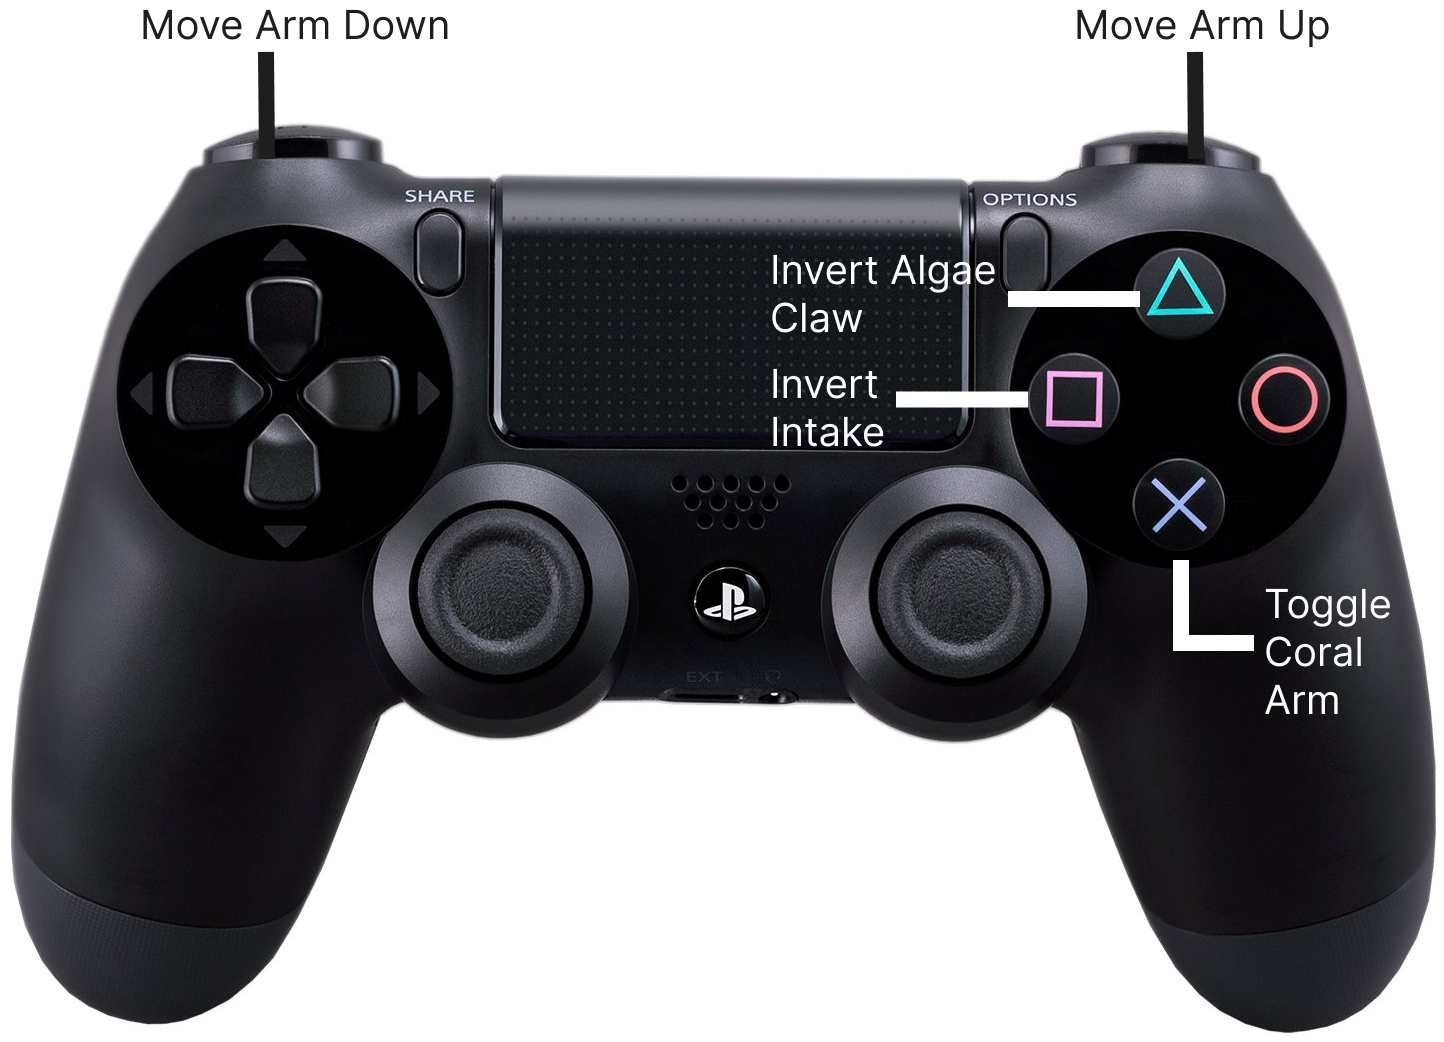
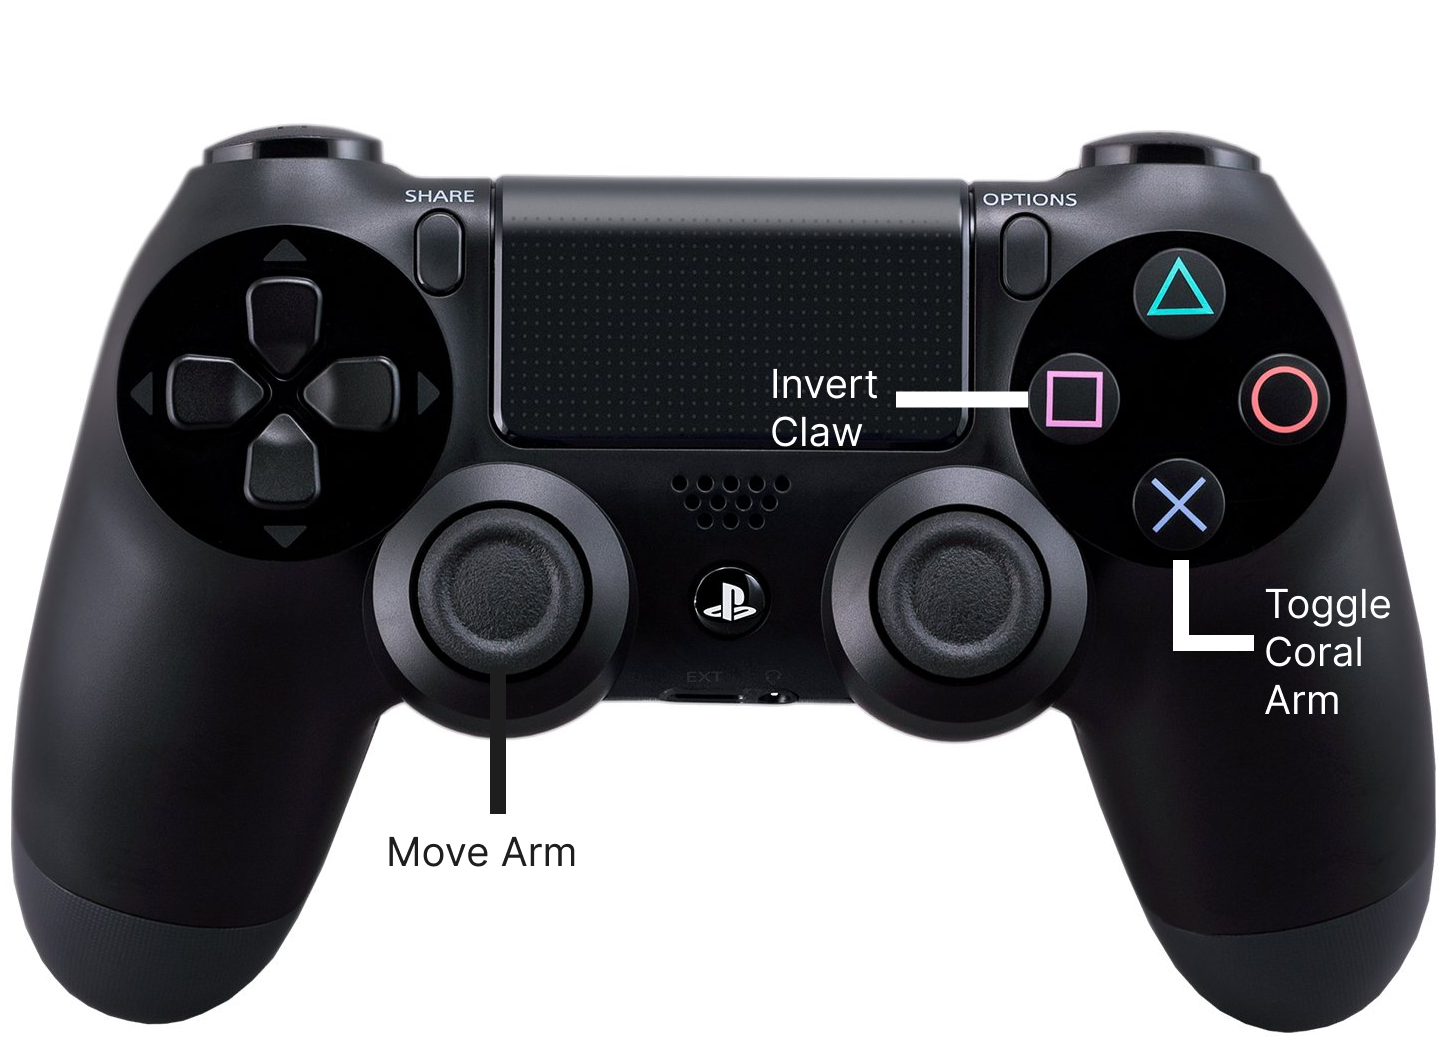
new controller mapping

diff --git a/src/main/java/frc/robot/RobotContainer.java b/src/main/java/frc/robot/RobotContainer.java
@@ -40,7 +40,7 @@ public class RobotContainer {
     // The robot's subsystems and commands are defined here
     public final DriveSubsystem m_driveSubsystem = new DriveSubsystem();
     public final ArmSubsystem m_armSubsystem = new ArmSubsystem();
-    public final BallSubsystem m_BallSubsystem = new BallSubsystem();
+    public final BallSubsystem m_ballSubsystem = new BallSubsystem();
 
     // Create the controllers
     private static CommandPS5Controller driver;
@@ -58,7 +58,7 @@ public class RobotContainer {
       // The base command that is always running is the moving command
       CommandScheduler.getInstance().setDefaultCommand(m_driveSubsystem, new DefaultDriveCommand(m_driveSubsystem));
       CommandScheduler.getInstance().setDefaultCommand(m_armSubsystem, new DefaultArmCommand(m_armSubsystem));
-      CommandScheduler.getInstance().setDefaultCommand(m_BallSubsystem, new DefaultBallCommand(m_BallSubsystem));
+      CommandScheduler.getInstance().setDefaultCommand(m_ballSubsystem, new DefaultBallCommand(m_ballSubsystem));
     }
   
     /**

diff --git a/src/main/java/frc/robot/commands/DefaultArmCommand.java b/src/main/java/frc/robot/commands/DefaultArmCommand.java
@@ -13,6 +13,7 @@ public class DefaultArmCommand extends Command{
     private final ArmSubsystem m_subsystem;
     private final CommandPS4Controller m_controller = RobotContainer.getOperatorController();
     private boolean isArmOpened = false;
+    private double armState = 0;
 
     public DefaultArmCommand(ArmSubsystem subsystem) {
         m_subsystem = subsystem;
@@ -43,13 +44,11 @@ public class DefaultArmCommand extends Command{
             }
         }
 
-        if (m_controller.L1().getAsBoolean()){
-            m_subsystem.moveArm(-0.4);
-        }
+        //Move arm up + down based on Joystick
 
-        if (m_controller.R1().getAsBoolean()){
-            m_subsystem.moveArm(0.4);
-        }
+        // Get the value of the joystick
+        double speed = m_controller.getLeftY();
+        m_subsystem.moveArm(speed);
     }
     
     // Called once the command ends or is interrupted.

diff --git a/src/main/java/frc/robot/subsystems/ArmSubsystem.java b/src/main/java/frc/robot/subsystems/ArmSubsystem.java
@@ -34,6 +34,7 @@ public class ArmSubsystem extends SubsystemBase{
         m_solenoid2 = new Solenoid(PneumaticsModuleType.CTREPCM, OperatorConstants.PNEUMATICPORT2);
 
         m_armMotor2.follow(m_armMotor1);
+        m_solenoid2.set(true);
     }
 
     // Change Solenoid values to open/close arm 
@@ -45,7 +46,7 @@ public class ArmSubsystem extends SubsystemBase{
     // Move the arm up and down
     public void moveArm(double speedConst){
       //Stop if at min/max location
-        m_armMotor1.set(speedConst);
+        m_armMotor1.set(speedConst*0.67);
     }
 
     //Check if system is open

diff --git a/src/main/java/frc/robot/Constants.java b/src/main/java/frc/robot/Constants.java
@@ -26,6 +26,7 @@ public final class Constants {
     //Arm
     public static final int MOTORCONTROLPORT5 = 5;
     public static final int MOTORCONTROLPORT6 = 6;
+    
     public static final int PNEUMATICPORT1 = 0;
     public static final int PNEUMATICPORT2 = 1;
     

diff --git a/src/main/java/frc/robot/subsystems/BallSubsystem.java b/src/main/java/frc/robot/subsystems/BallSubsystem.java
@@ -20,7 +20,7 @@ public class BallSubsystem extends SubsystemBase {
 
   public void invertClaw() {
     if(claw.get() == 0.0){
-      claw.set(1.0);
+      claw.set(-1.0);
     }
     claw.setInverted(!claw.getInverted());
   }
